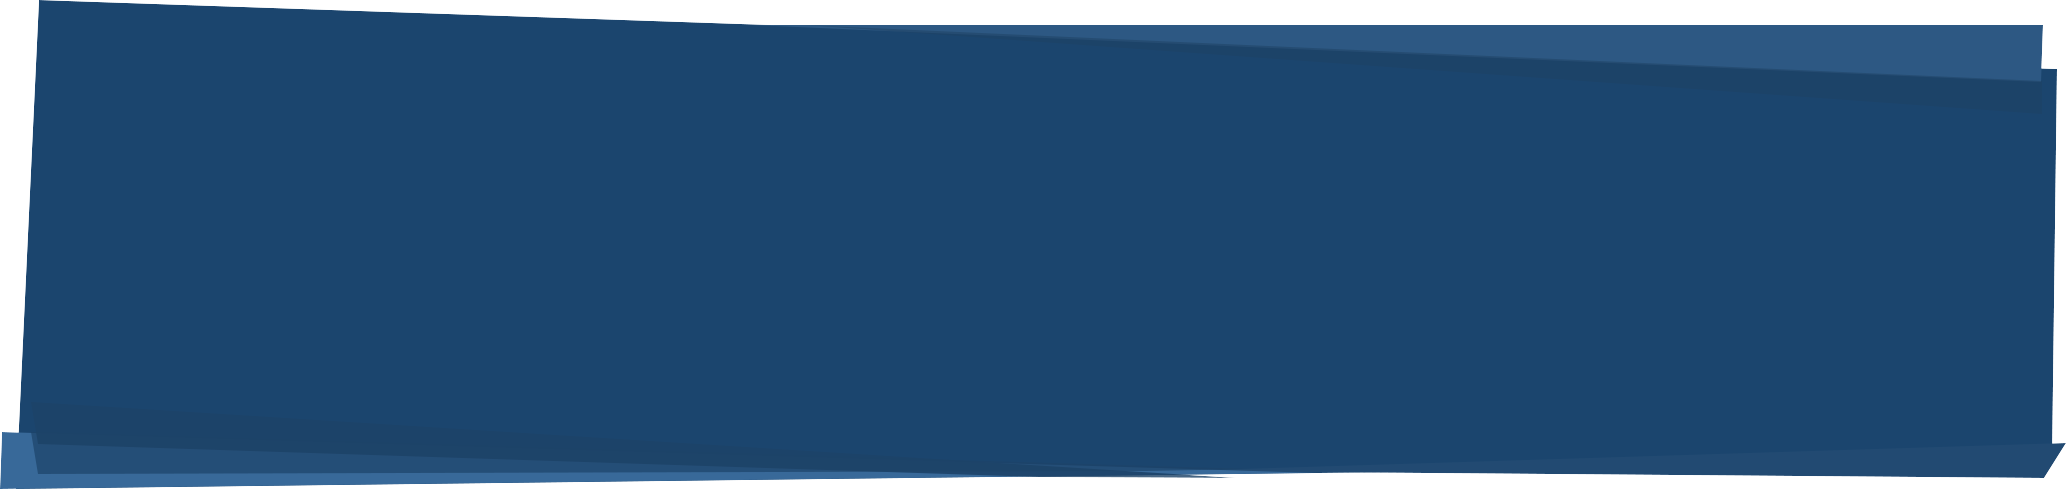
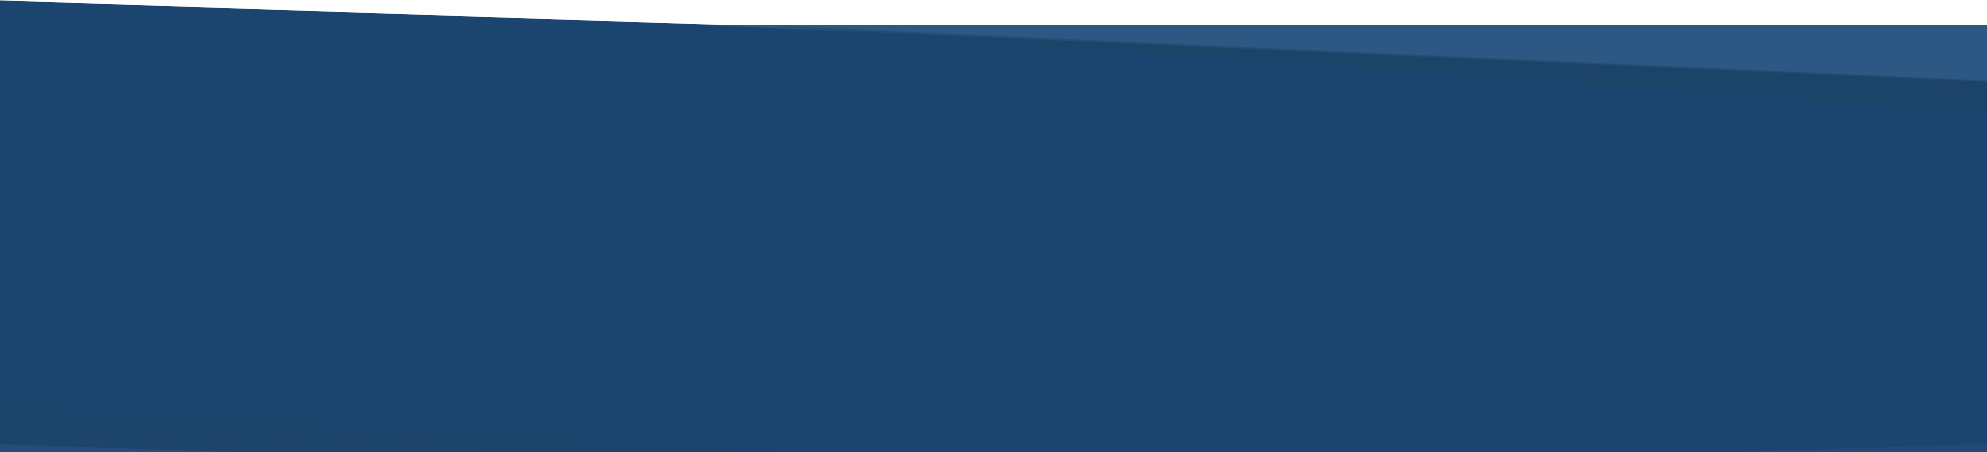
fixed bg for ff

Changed region(s): [[0.0, 0.0, 1.0, 1.0], [0.7489, 0.1239, 0.9049, 0.1549], [0.6865, 0.0929, 0.7177, 0.1239]]

diff --git a/include/css/main.css b/include/css/main.css
@@ -32,6 +32,7 @@ header .header-main {
   left: 0;
   width: 100%;
   height: 624px;
+      min-width: 1048px;
 }
 .abs-header {
   position: absolute;
@@ -120,7 +121,7 @@ header .header-main {
   margin-left: 565px;
   margin-top: 40px;
   font-size: 18px;
-  width: auto;
+  width: 130px;;
   color: white;
 }
 .fb {
@@ -238,6 +239,7 @@ header .header-main {
   width: 100%;
   height: 1637px;
   z-index: -1000;
+      min-width: 1048px;
 }
 .why .wrap-h1 {
   position: relative;
@@ -399,6 +401,7 @@ header .header-main {
   height: 725px;
   right: 0;
   left: 0;
+      min-width: 1048px;
 }
 .tv .wrap-h1 {
   position: relative;
@@ -492,6 +495,7 @@ header .header-main {
   left: 50%;
   margin-left: -1001px;
   z-index: -1000;
+
 /*  top: -105px;*/
 }
 .radio > .abs {
@@ -500,6 +504,7 @@ header .header-main {
     width: 100%;
     margin-left: 0;
     height: 692px;
+  min-width: 1048px;
 }
 .radio .wrap-h1 {
   float: right;
@@ -790,6 +795,7 @@ header .header-main {
   width: 100%;
     height: 695px;
     left: 0;
+      min-width: 1048px;
 }
 .internet .wrap-h1 {
   position: relative;
@@ -1128,10 +1134,12 @@ footer .abs {
 /*  top: -50px;*/
 /*  bottom: 0;*/
   left: 0;
+
 }
 footer > .abs {
   width: 100%;
   height: 489px;
+  min-width: 1048px;
 }
 footer h1 {
   font-size: 32px;
